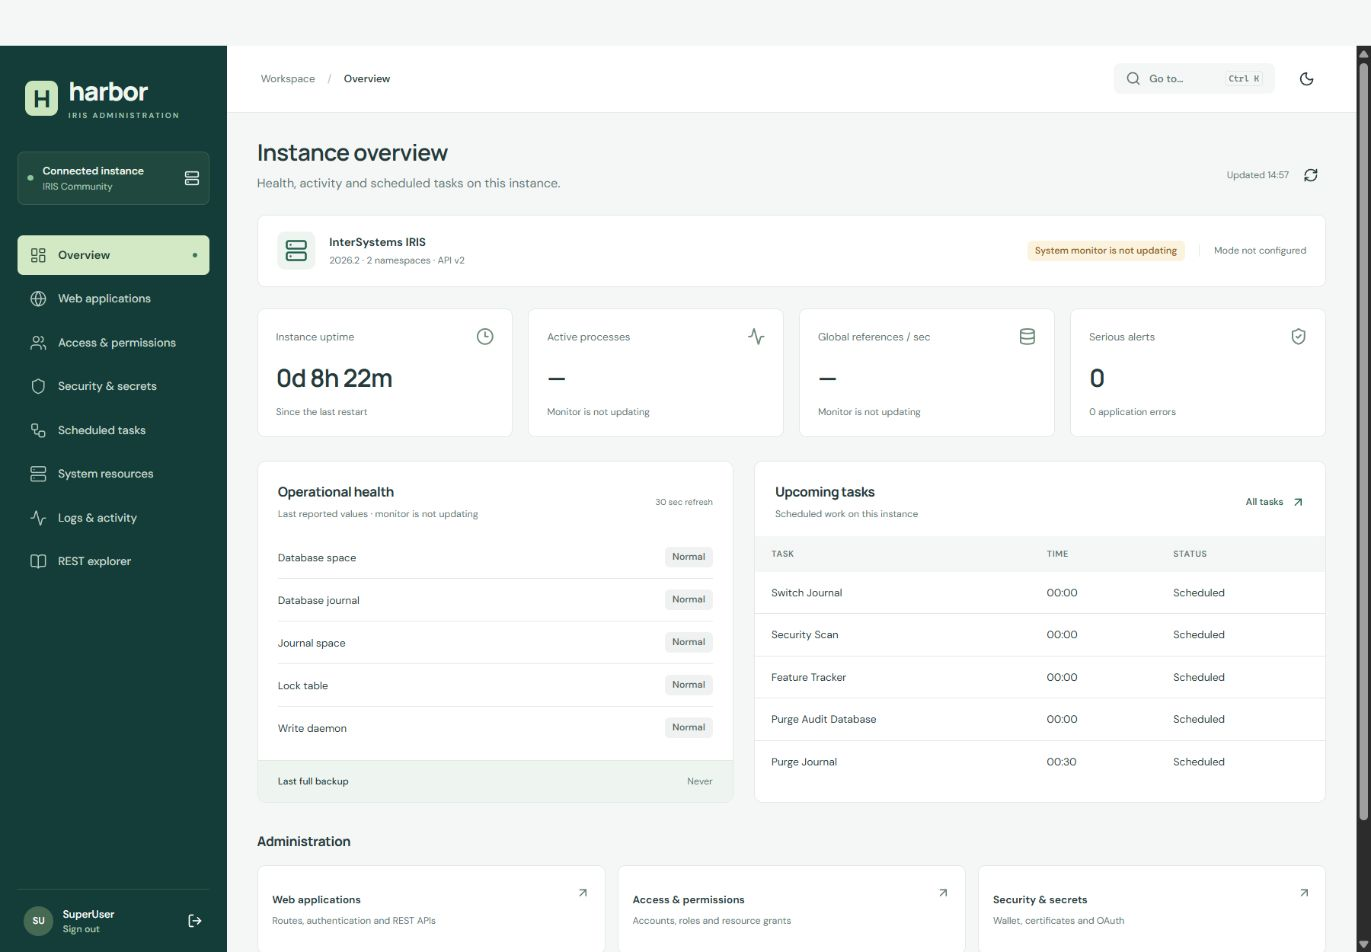
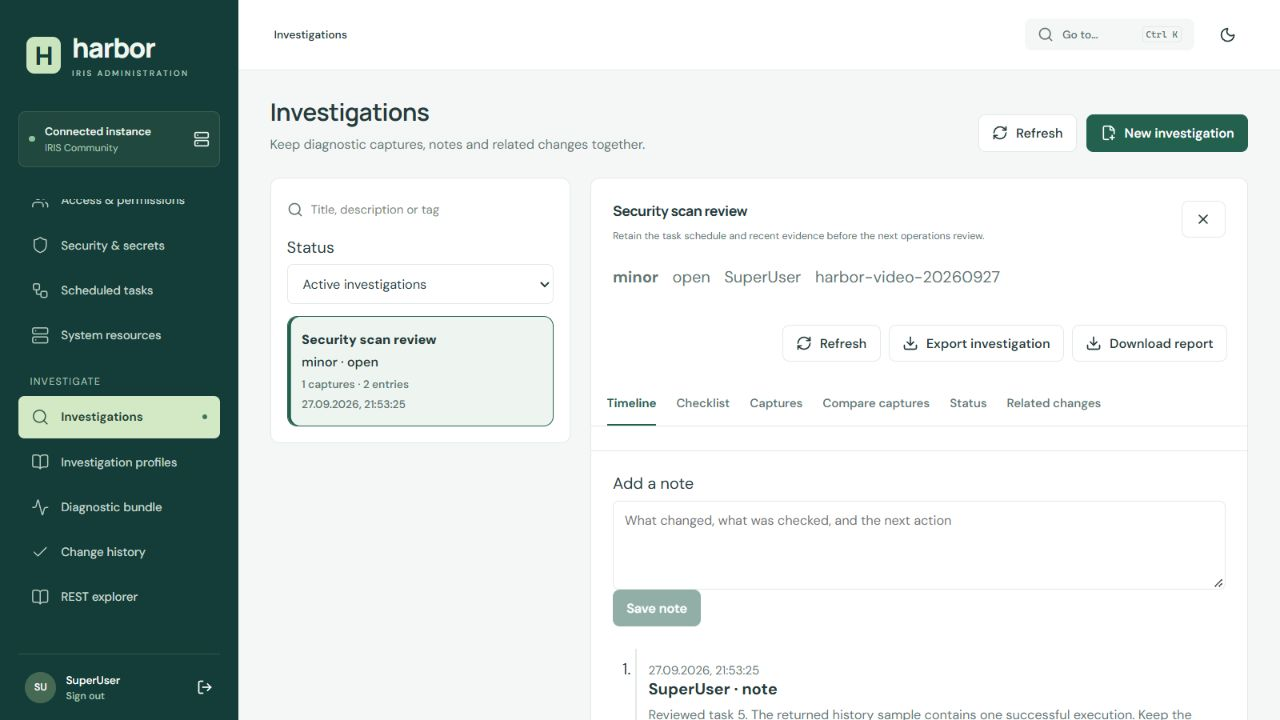
Show current investigation workflow in project overview

diff --git a/README.md b/README.md
@@ -4,7 +4,7 @@ Harbor is an administration portal for InterSystems IRIS. Inspect tasks, logs an
 
 Built for the [InterSystems Programming Contest: Build Your Own Management Portal](https://community.intersystems.com/post/intersystems-programming-contest-build-your-own-management-portal).
 
-![Harbor connected to a real IRIS Community instance](docs/images/overview.png)
+![Harbor investigation with saved task evidence and review notes](docs/images/overview.png)
 
 ## What you can do
 
